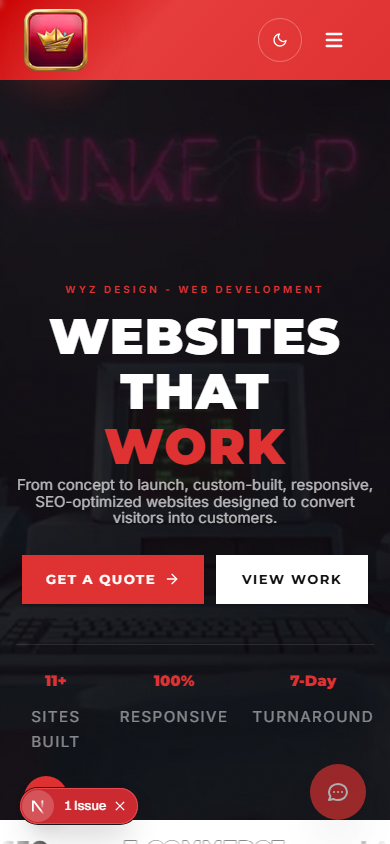
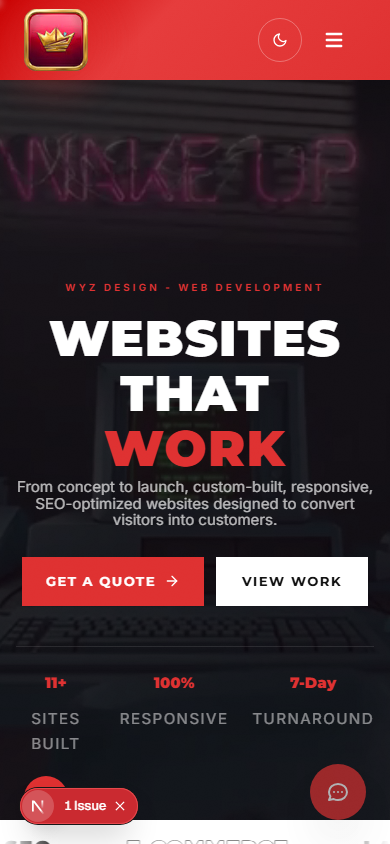
fix: buttons side-by-side on mobile, flex-nowrap, smaller padding

diff --git a/src/app/web-design/page.tsx b/src/app/web-design/page.tsx
@@ -238,11 +238,11 @@ return (
             <p className="text-white/70 text-[16px] sm:text-[16px] leading-relaxed mb-6 sm:mb-3 max-w-sm mx-auto text-center">
               From concept to launch, custom-built, responsive, SEO-optimized websites designed to convert visitors into customers.
             </p>
-            <div className="flex flex-wrap gap-3 sm:gap-4 justify-center w-full">
-              <Link href="/booking" className="inline-flex items-center gap-2 px-6 sm:px-8 py-3 sm:py-4 bg-[#DF3131] text-white font-heading font-bold tracking-[0.12em] uppercase text-[12px] sm:text-[14px] text-center hover:bg-[#B82020] transition-all justify-center">
+            <div className="flex flex-nowrap gap-3 justify-center w-full">
+              <Link href="/booking" className="inline-flex items-center gap-1 px-5 sm:px-8 py-3 sm:py-4 bg-[#DF3131] text-white font-heading font-bold tracking-[0.12em] uppercase text-[11px] sm:text-[14px] text-center hover:bg-[#B82020] transition-all justify-center">
                 GET A QUOTE <FiArrowRight className="w-4 h-4" />
               </Link>
-              <a href="#portfolio" className="inline-flex items-center gap-2 px-6 sm:px-8 py-3 sm:py-4 bg-white text-[#111] border-2 border-white font-heading font-bold tracking-[0.12em] uppercase text-[12px] sm:text-[14px] text-center hover:bg-[#DF3131] hover:text-white hover:border-[#DF3131] transition-all justify-center">
+              <a href="#portfolio" className="inline-flex items-center gap-1 px-5 sm:px-8 py-3 sm:py-4 bg-white text-[#111] border-2 border-white font-heading font-bold tracking-[0.12em] uppercase text-[11px] sm:text-[14px] text-center hover:bg-[#DF3131] hover:text-white hover:border-[#DF3131] transition-all justify-center">
                 VIEW WORK
               </a>
             </div>

diff --git a/src/app/home/page.tsx b/src/app/home/page.tsx
@@ -915,16 +915,16 @@ export default function HomePage() {
        We help artists, brands, and real people build creative work that actually looks good.
        </p>
        </GyroTilt>
-<div className="flex flex-row gap-4 justify-center flex-wrap mt-6 sm:mt-6">
+<div className="flex flex-row gap-3 justify-center mt-6 sm:mt-6">
       <MagneticElement tag="div" strength={0.25}>
       <Link href="/about"
-       className="inline-block bg-white text-[#111] border-2 border-white px-8 py-4 font-heading font-bold tracking-[0.15em] uppercase text-[13px] sm:text-[15px] text-center hover:bg-white hover:text-[#111] hover:border-white hover:shadow-[0_0_20px_rgba(255,255,255,0.6)] hover:shadow-white/20 transition-all">
+       className="inline-block bg-white text-[#111] border-2 border-white px-5 py-3 font-heading font-bold tracking-[0.15em] uppercase text-[12px] sm:text-[15px] text-center hover:bg-white hover:text-[#111] hover:border-white hover:shadow-[0_0_20px_rgba(255,255,255,0.6)] hover:shadow-white/20 transition-all">
       SEE THE STORY
       </Link>
       </MagneticElement>
       <MagneticElement tag="div" strength={0.25}>
       <Link href="/contact"
-       className="inline-block bg-[#DF3131] text-white border-2 border-[#DF3131] px-8 py-4 font-heading font-bold tracking-[0.15em] uppercase text-[13px] sm:text-[15px] text-center hover:bg-[#B82020] hover:border-[#B82020] transition-all">
+       className="inline-block bg-[#DF3131] text-white border-2 border-[#DF3131] px-5 py-3 font-heading font-bold tracking-[0.15em] uppercase text-[12px] sm:text-[15px] text-center hover:bg-[#B82020] hover:border-[#B82020] transition-all">
       START A PROJECT
       </Link>
       </MagneticElement>
